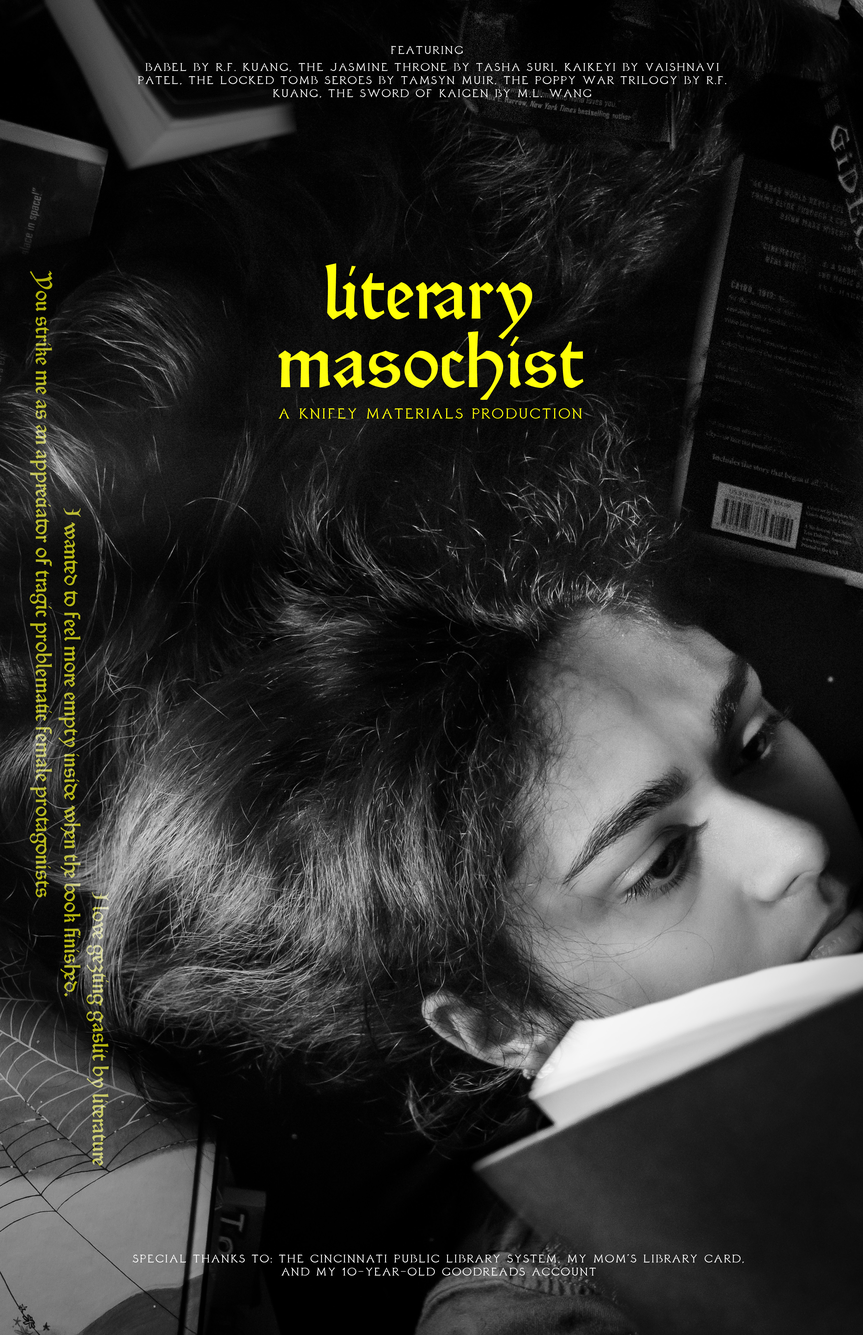
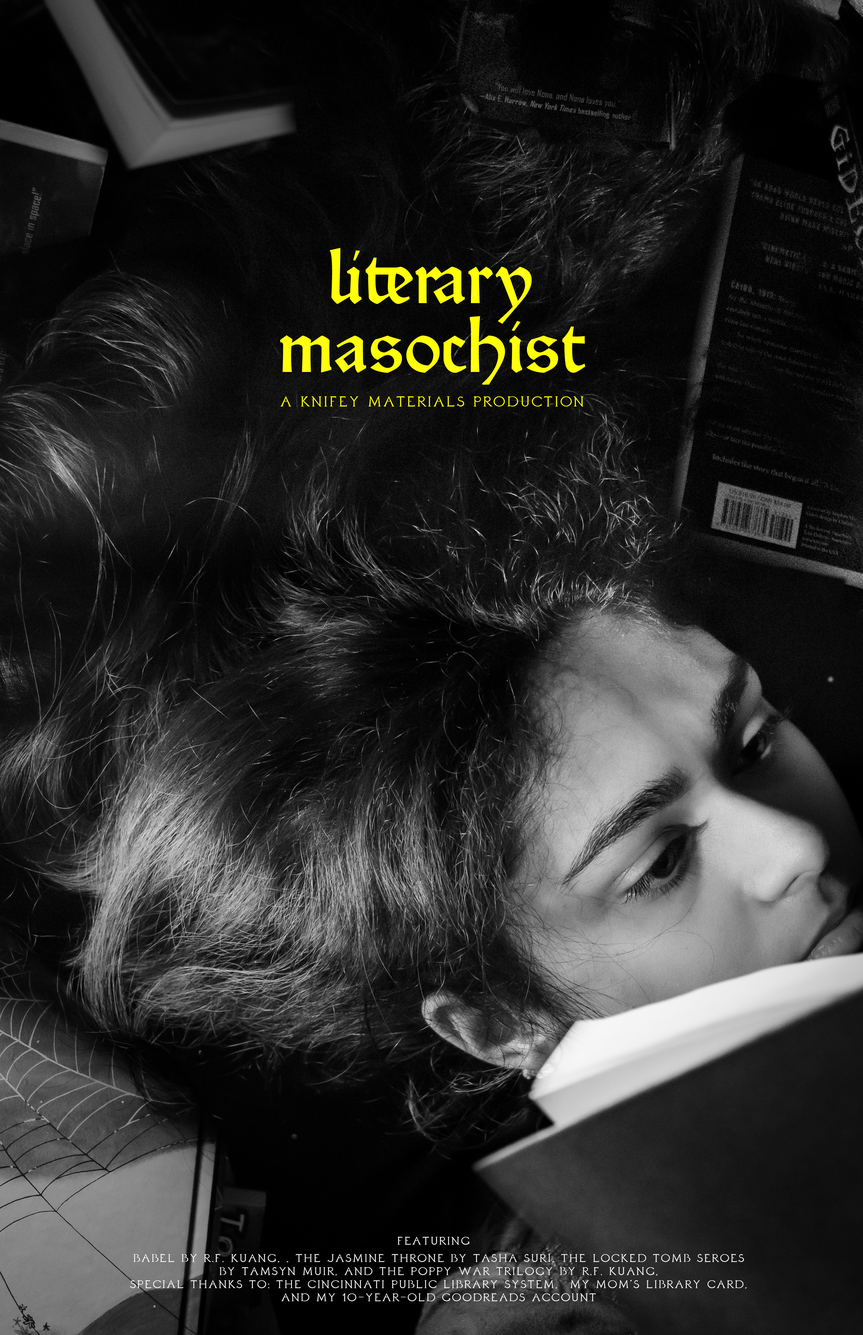
updated lit mas poster

diff --git a/literary masochist.html b/literary masochist.html
@@ -218,7 +218,7 @@
                 <div class="col-sm-6 main-column" id="test">
                     <div  class="d-flex flex-wrap flex-column align-content-sm-start h-100 poster-images-container">
                         <div class="poster-images" style="padding-top: 10px; margin-left:20px; margin-right: 20px;">
-                            <img class="img-fluid image poster" alt="Responsive image" src="Poster Images/literary masochist_alternative.jpg">
+                            <img class="img-fluid image poster" alt="Responsive image" src="Poster Images/literary masochist_POSTER.jpg">
                         </div>
 
                     </div><!--end of right column flex container-->

diff --git a/home.html b/home.html
@@ -236,7 +236,7 @@
                 </div>
                 <div class="col col-md-4 column">
                   <a href="https://achundur.github.io/movieposters/literary%20masochist.html"> 
-                    <img src="Poster Images/literary masochist_alternative.jpg">
+                    <img src="Poster Images/literary masochist_POSTER.jpg">
 
                   </a>
 
